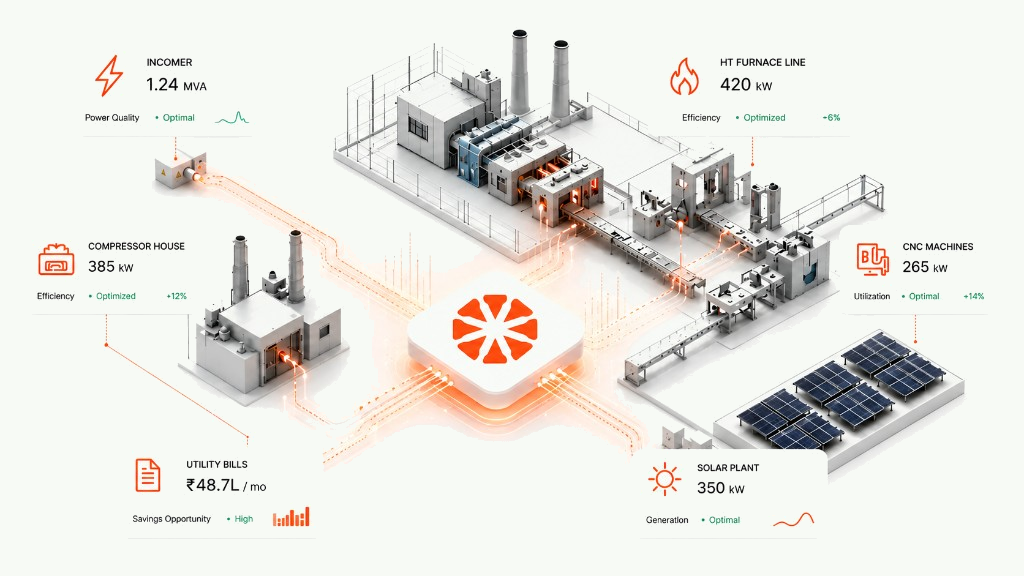
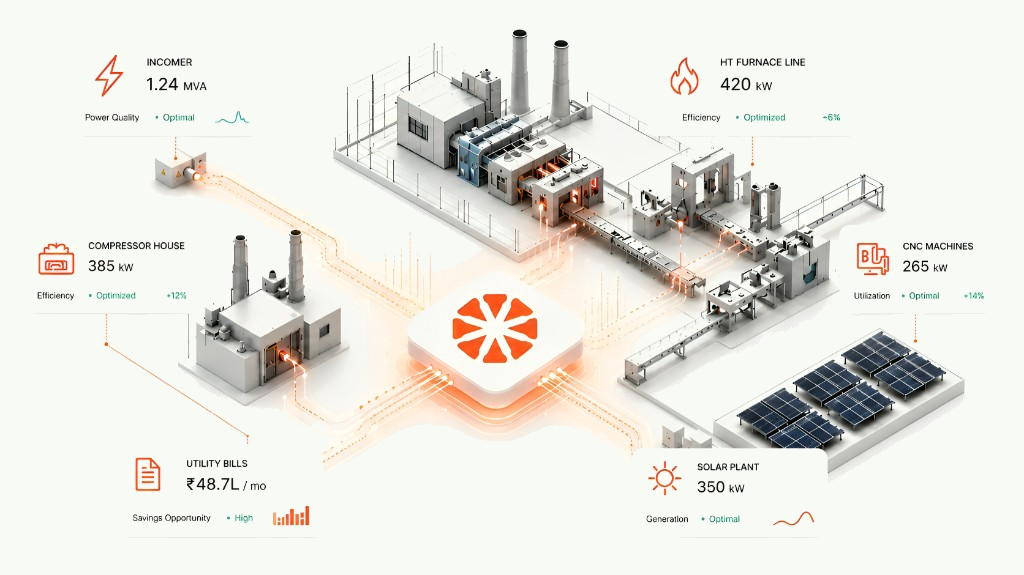
fix(copy): scrub client-facing typos and refresh hero blend
Repair truncated vertical outcome percentages, run-on disclaimers, and competitor-style attributions; retarget the hero isometric background to surface #f7faf5 for a seamless homepage blend.

diff --git a/lib/content/vertical-pages/cement.ts b/lib/content/vertical-pages/cement.ts
@@ -55,7 +55,7 @@ export const cementPage: VerticalPageContent = {
         step: "01",
         title: "Raw & finish mills",
         description:
-          "SEC drift 5-12% when bearings or separator degrad Anomaly triggers maintenance work order and schedule adjustment.",
+          "SEC drift 5-12% when bearings or separators degrade. Anomaly triggers a maintenance work order and schedule adjustment.",
         potentialLabel: "Est. monthly savings",
         potentialValue: "₹2-6L",
       },
@@ -107,12 +107,12 @@ export const cementPage: VerticalPageContent = {
     eyebrow: "Example prescriptions",
     title: "Governed dispatch decisions your team executes this week",
     description:
-      "Illustrative actions from cement plant benchmark Your pilot generates prescriptions from your meters, EMS feeds, and bill.",
+      "Illustrative actions from cement plant benchmarks. Your pilot generates prescriptions from your meters, EMS feeds, and bill.",
     footnote:
-      "Impact ranges are benchmark estimates - not customer guarantees. External reference: enterprise cement dispatch governance cases report ₹8-10 Cr/yr potential at large scale [Greenovative external]. Stamped targets mid-market plants.",
+      "Impact ranges are benchmark estimates, not customer guarantees. Published enterprise cement dispatch cases cite large annual potential; Stamped targets mid-market plants with plant-specific verification.",
     attribution: {
-      text: "Enterprise cement plants saved ₹8-10 Cr/yr potential through dispatch governance - Stamped brings governed decisions to mid-market scale.",
-      source: "Greenovative external benchmark",
+      text: "Enterprise cement plants have reported large annual potential through dispatch governance. Stamped brings governed decisions to mid-market scale.",
+      source: "Published industry case literature",
     },
     items: [
       {
@@ -174,7 +174,7 @@ export const cementPage: VerticalPageContent = {
   outcomes: {
     eyebrow: "What you gain",
     title: "Prescriptive cost optimization and sustained efficiency outcomes",
-    disclaimer: "Benchmark band Your pilot replaces these with evidence-verified figures.",
+    disclaimer: "Indicative benchmark band. Your pilot replaces these with evidence-verified figures.",
     items: [
       {
         id: "kwh-ton",
@@ -186,13 +186,13 @@ export const cementPage: VerticalPageContent = {
         id: "dispatch",
         title: "Stage-wise SEC control",
         description:
-          "AI monitors SEC at each manufacturing stage and prescribes corrective actions across raw grinding, kiln, and cement grinding, reducing stage-wise SEC by 8-12",
+          "AI monitors SEC at each manufacturing stage and prescribes corrective actions across raw grinding, kiln, and cement grinding, reducing stage-wise SEC by 8-12%.",
       },
       {
         id: "md",
         title: "Utility-level efficiency and reliability",
         description:
-          "AI tracks large utilities like fans, blowers, and mills, prescribing early interventions to prevent degradation and cut unplanned downtime by 15-20",
+          "AI tracks large utilities like fans, blowers, and mills, prescribing early interventions to prevent degradation and cut unplanned downtime by 15-20%.",
       },
       {
         id: "ledger",
@@ -207,7 +207,7 @@ export const cementPage: VerticalPageContent = {
       id: "kwh-ton-benchmark",
       question: "What is a good kWh/ton benchmark for cement plants?",
       answer:
-        "Electrical SEC for cement typically runs 70-80 kWh/to with best-performing plants under 67 kWh/ton. Stamped tracks your plant's baseline by line and shift - benchmarks are starting points, not targets.",
+        "Electrical SEC for cement typically runs 70-80 kWh/ton, with best-performing plants under 67 kWh/ton. Stamped tracks your plant's baseline by line and shift. Benchmarks are starting points, not targets.",
     },
     {
       id: "ems-vs-stamped",

diff --git a/lib/content/vertical-pages/steel.ts b/lib/content/vertical-pages/steel.ts
@@ -107,9 +107,9 @@ export const steelPage: VerticalPageContent = {
     eyebrow: "Example prescriptions",
     title: "Furnace and MD actions assigned this week",
     description:
-      "Illustrative actions from secondary steel and rolling benchmark Your pilot generates prescriptions from your meters and bill.",
+      "Illustrative actions from secondary steel and rolling benchmarks. Your pilot generates prescriptions from your meters and bill.",
     footnote:
-      "Impact ranges are benchmark estimate External reference: Zerowatt integrated plant case at enterprise scale [external] - Stamped targets mid-market induction and rolling plants.",
+      "Impact ranges are benchmark estimates, not customer guarantees. Enterprise-scale integrated plant cases are cited only as context. Stamped targets mid-market induction and rolling plants with plant-specific verification.",
     items: [
       {
         id: "induction-hold",
@@ -170,19 +170,19 @@ export const steelPage: VerticalPageContent = {
   outcomes: {
     eyebrow: "What you gain",
     title: "Tighter process efficiency and per-unit cost stability",
-    disclaimer: "Benchmark band External SEC wins cited with attribution only.",
+    disclaimer: "Indicative benchmark band. External SEC references are cited for context only.",
     items: [
       {
         id: "furnace-md",
         title: "Tighter process efficiency",
         description:
-          "Prescriptive AI keeps furnaces and rolling processes within efficient operating windows, reducing avoidable energy loss during real production by 5-10",
+          "Prescriptive AI keeps furnaces and rolling processes within efficient operating windows, reducing avoidable energy loss during real production by 5-10%.",
       },
       {
         id: "rolling-sec",
         title: "Per-unit energy cost stability",
         description:
-          "AI detects captive power generation inefficiencies early and prescribes corrections before small deviations escalate into sustained cost losses, reducing per-unit energy cost by almost 5",
+          "AI detects captive power generation inefficiencies early and prescribes corrections before small deviations escalate into sustained cost losses, reducing per-unit energy cost by almost 5%.",
       },
       {
         id: "pat-sec",
@@ -194,7 +194,7 @@ export const steelPage: VerticalPageContent = {
         id: "ledger",
         title: "Utility efficiency discipline",
         description:
-          "Continuous monitoring keeps SEC of large utilities such as pumps, compressors, and cooling systems within efficient limits, cutting unplanned utility downtime by 10-15",
+          "Continuous monitoring keeps SEC of large utilities such as pumps, compressors, and cooling systems within efficient limits, cutting unplanned utility downtime by 10-15%.",
       },
     ],
   },
@@ -209,7 +209,7 @@ export const steelPage: VerticalPageContent = {
       id: "induction-consumption",
       question: "How much does induction furnace holding power cost?",
       answer:
-        "Holding power between heats can run 30-50% of furnace electricity with no production outpu Stamped quantifies this per furnace and assigns setback schedules with monthly rupee impact.",
+        "Holding power between heats can run 30-50% of furnace electricity with no production output. Stamped quantifies this per furnace and assigns setback schedules with monthly rupee impact.",
     },
     {
       id: "pat-sec",

diff --git a/lib/content/vertical-pages/pharma.ts b/lib/content/vertical-pages/pharma.ts
@@ -107,12 +107,12 @@ export const pharmaPage: VerticalPageContent = {
     eyebrow: "Example prescriptions",
     title: "GMP-safe operational levers - utilities, not room reclassification",
     description:
-      "Illustrative actions from BEE pharma cluster benchmark Change-control-friendly utility tweaks first.",
+      "Illustrative actions from BEE pharma cluster benchmarks. Change-control-friendly utility tweaks first.",
     footnote:
-      "Impact ranges are benchmark estimate Stamped frames prescriptions as utilities operations - not GMP room classification changes. Validate with your quality team before execution.",
+      "Impact ranges are benchmark estimates. Stamped frames prescriptions as utilities operations, not GMP room classification changes. Validate with your quality team before execution.",
     attribution: {
-      text: "Large pharma RE governance cases report ₹1-2 Cr/yr leakage prevented at enterprise scale [Greenovative external]. Stamped targets MSME and mid-market formulation plants.",
-      source: "Greenovative external benchmark",
+      text: "Large pharma renewable-energy governance cases report significant annual leakage prevented at enterprise scale. Stamped targets MSME and mid-market formulation plants.",
+      source: "Published industry case literature",
     },
     items: [
       {
@@ -135,7 +135,7 @@ export const pharmaPage: VerticalPageContent = {
         id: "ca-pressure",
         title: "Reduce compressed air header pressure band",
         description:
-          "Header at 8.2 bar for 7.5 bar process requirement - 9% energy reduction on CA syste",
+          "Header at 8.2 bar for a 7.5 bar process requirement. About 9% energy reduction on the compressed-air system.",
         impactRange: "₹1-3L/month",
         assignee: "Maintenance / utilities",
       },
@@ -174,7 +174,7 @@ export const pharmaPage: VerticalPageContent = {
   outcomes: {
     eyebrow: "What you gain",
     title: "Targeted waste elimination and stable thermal performance",
-    disclaimer: "BEE benchmark band Your pilot replaces these with evidence-verified figures.",
+    disclaimer: "Indicative BEE benchmark band. Your pilot replaces these with evidence-verified figures.",
     items: [
       {
         id: "hvac-rupees",

diff --git a/lib/content/vertical-pages/chemical.ts b/lib/content/vertical-pages/chemical.ts
@@ -105,7 +105,7 @@ export const chemicalPage: VerticalPageContent = {
     eyebrow: "Example prescriptions",
     title: "What to change before month-end - assigned to your batch team",
     description:
-      "Illustrative actions from batch chemical benchmark Path A: batch log CSV + bill. Path B: DCS integration.",
+      "Illustrative actions from batch chemical benchmarks. Path A: batch log CSV + bill. Path B: DCS integration.",
     footnote:
       "Impact ranges are benchmark estimates - not customer guarantees. Verified figures come from your pilot M&V.",
     items: [
@@ -168,13 +168,13 @@ export const chemicalPage: VerticalPageContent = {
   outcomes: {
     eyebrow: "What you gain",
     title: "Controlled energy intensity and predictable operations",
-    disclaimer: "Benchmark band Your pilot replaces these with evidence-verified figures.",
+    disclaimer: "Indicative benchmark band. Your pilot replaces these with evidence-verified figures.",
     items: [
       {
         id: "batch-sec",
         title: "Controlled energy intensity",
         description:
-          "Energy stays within defined operating bands across batch and continuous operations, with AI prescribing adjustments to prevent drift, reducing SEC by 8-12",
+          "Energy stays within defined operating bands across batch and continuous operations, with AI prescribing adjustments to prevent drift, reducing SEC by 8-12%.",
       },
       {
         id: "idle-hold",

diff --git a/lib/content/solutions.ts b/lib/content/solutions.ts
@@ -309,7 +309,7 @@ export const solutionsContent = {
       method: {
         eyebrow: "Plant-tuned models",
         title: "Pre-trained models, fine-tuned on your plant",
-        body: "We start from domain pre-trained models, then train and fine-tune on your plant’s actual equipment data. Every plant and every asset has a different baseline. Models keep learning from your operating history so early signs of equipment drift or breakage show up before a trip, with an assigned next action and evidence trail.",
+        body: "We start from domain pre-trained models, then train and fine-tune on your plant's actual equipment data. Every plant and every asset has a different baseline. Models keep learning from your operating history so early signs of equipment drift or breakage show up before a trip, with an assigned next action and evidence trail.",
         points: [
           "Domain pre-trained models as the starting point, not a blank slate",
           "Fine-tuned on your plant and equipment baselines",

diff --git a/lib/content/vertical-pages/automotive.ts b/lib/content/vertical-pages/automotive.ts
@@ -184,7 +184,7 @@ export const automotivePage: VerticalPageContent = {
         id: "sec",
         title: "Stable SECs and KPIs",
         description:
-          "Continuous supervision prescribes corrective actions to maintain SECs and efficiency KPIs within defined operating bands, reducing performance drift by 8-12",
+          "Continuous supervision prescribes corrective actions to maintain SECs and efficiency KPIs within defined operating bands, reducing performance drift by 8-12%.",
       },
       {
         id: "reliability",

diff --git a/lib/content/resources.ts b/lib/content/resources.ts
@@ -13,7 +13,7 @@ export const resourcesContent = {
     "Published outcomes and field notes from energy-intensive manufacturing, starting with automotive-adjacent process plants.",
   items: [
     {
-      id: "auto-insight-placeholder",
+      id: "auto-sec-insight",
       type: "blog",
       title: "Automotive & pump manufacturing: 18% SEC reduction",
       description:

diff --git a/components/sections/hero/HeroIsometricVisual.tsx b/components/sections/hero/HeroIsometricVisual.tsx
@@ -14,7 +14,7 @@ export function HeroIsometricVisual() {
           src="/images/hero/energy-facility-isometric.png"
           alt={HERO_IMAGE_ALT}
           width={1024}
-          height={576}
+          height={575}
           priority
           sizes="(max-width: 1024px) 100vw, 70vw"
           className="h-auto w-full bg-surface object-contain"

diff --git a/components/solutions/EarlyDetectionVisual.tsx b/components/solutions/EarlyDetectionVisual.tsx
@@ -7,7 +7,7 @@ import { gsap, useGSAP } from "@/lib/motion/gsap";
 import { cn } from "@/lib/utils";
 
 /**
- * Illustrative paths — not plant telemetry.
+ * Illustrative paths - not plant telemetry.
  * Stamped path rises early; generic stays flat until near failure.
  */
 const STAMPED_PATH =

diff --git a/lib/content/industries.ts b/lib/content/industries.ts
@@ -2,7 +2,6 @@ import type {
   CtaLink,
   IndustrySegment,
   IndustryVertical,
-  StatItem,
 } from "./types";
 import { getVerticalPage, VERTICAL_SLUGS, type VerticalSlug } from "./vertical-pages";
 

diff --git a/PROGRESS.md b/PROGRESS.md
@@ -30,6 +30,7 @@ Helvetica Neue site-wide typography (ADR-014) - complete (2026-08-01) on `feat/i
 - [x] **Typography (ADR-014)** - Helvetica Neue system stack for display + body site-wide; drop Inter / Plus Jakarta; C3-inspired type rhythm only
 - [x] **Solutions ML narrative** - agentic load-energy + plant-tuned models copy; AgenticEnergyVisual + EarlyDetectionVisual (illustrative, GSAP); problem band dark / method band light with black visual cards; equipment chart shows dual paths + single “40-50% earlier…” line (no badge box)
 - [x] **Industries By industry zig-zag (ADR-015)** - black alternating image/copy cards from existing vertical metrics/equipment; full-card links; no fleet claims or named customers; replaces comparison table
+- [x] **Client-facing QA (2026-08-01)** - vertical copy scrub (truncated %, run-ons, competitor-style attributions); hero isometric bg matched to `#f7faf5`; `tsc` + `next build` green
 
 ## Remaining Phases
 
